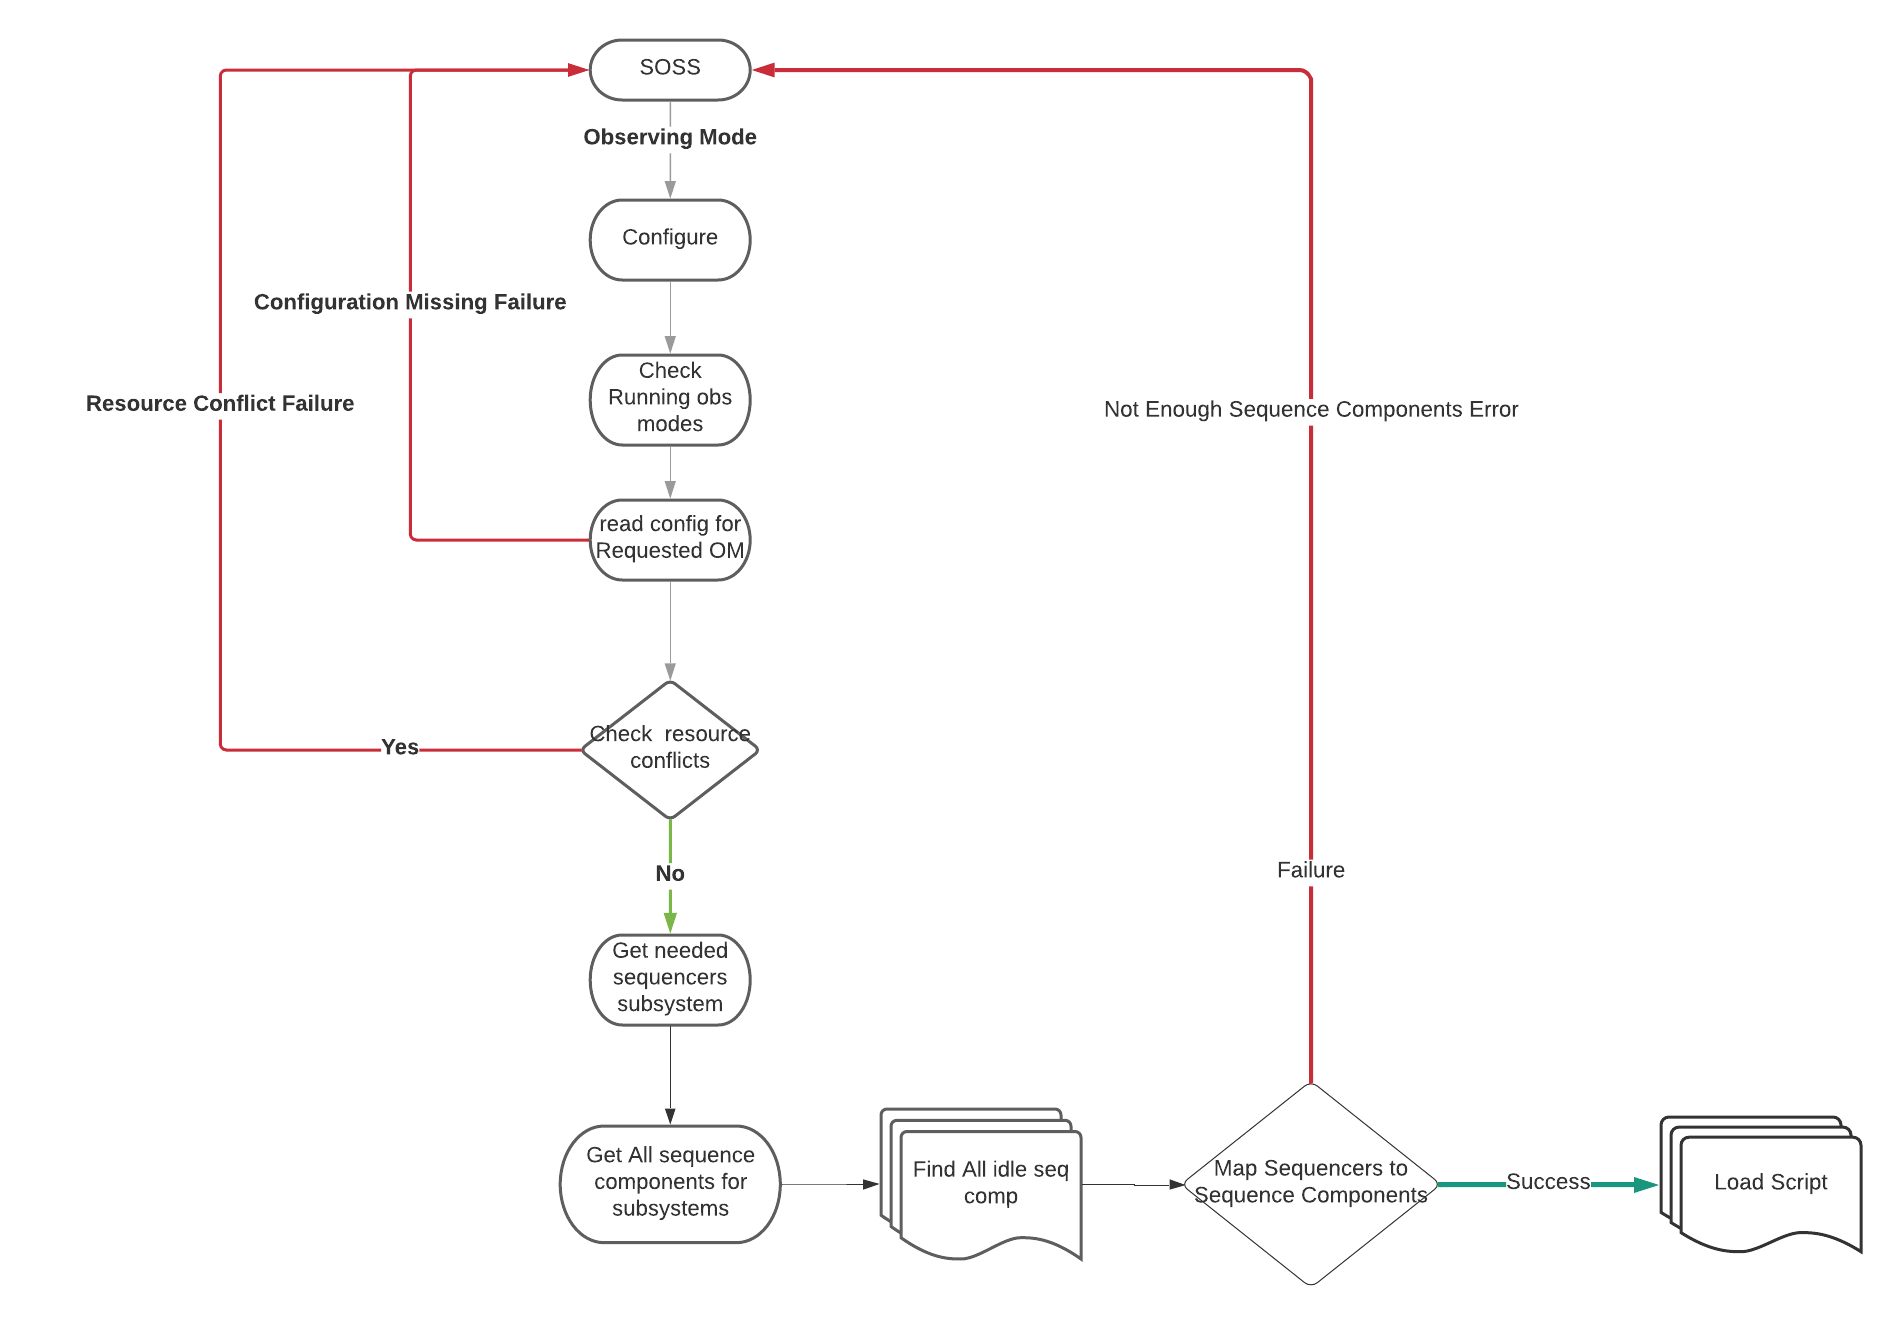
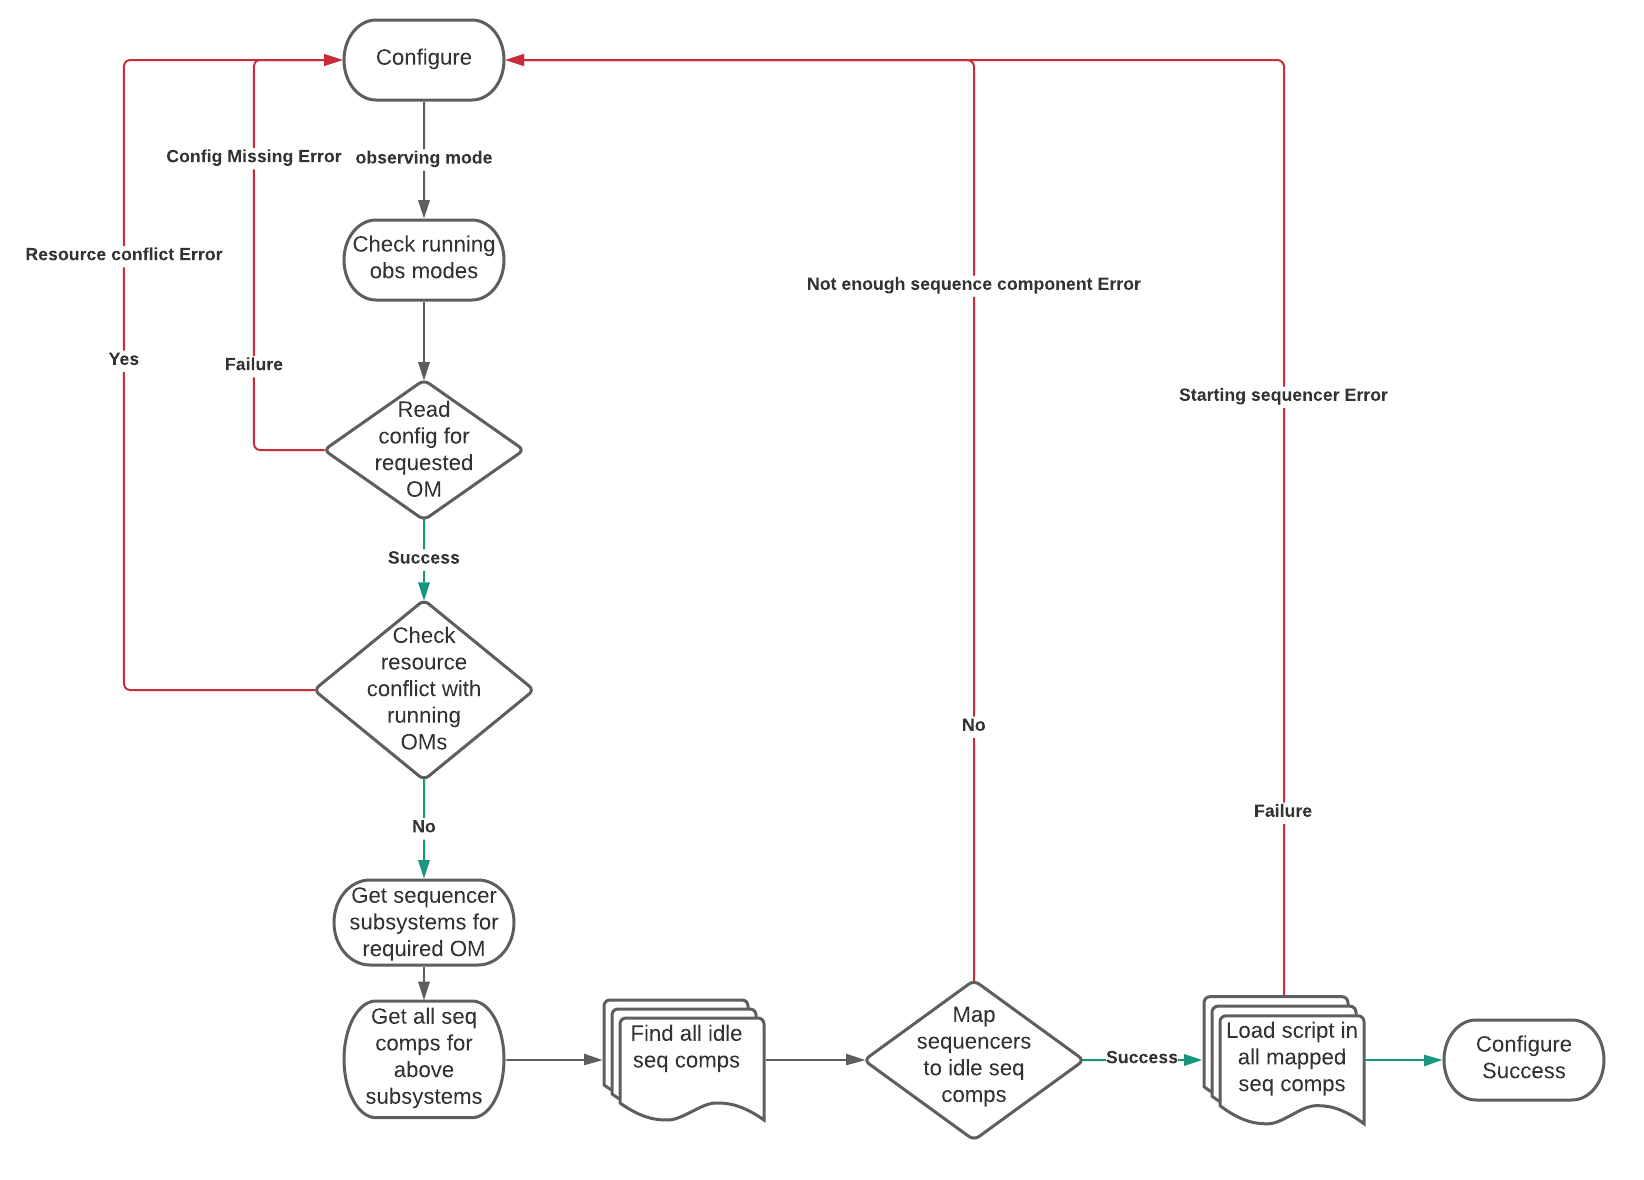
#ESW-388: Poorva: Technical documentation for Sequence Manager.

diff --git a/docs/src/main/technical/sequencemanager/sm-impl-details.md b/docs/src/main/technical/sequencemanager/sm-impl-details.md
@@ -38,9 +38,10 @@ Following flow chart shows algorithm for provision flow
 Configure is responsible for starting sequencers needed for an observing mode. It also checks for any resource conflicts with ongoing observations.
 Configure API, checks for required sequencers and resources in obsModeConfig file provided at boot up time sequence manager. This config file contains mapping of observing mode
 to required sequencers and resources. When configure for particular observing mode command is received by Sequence Manager, it checks following:
-- Mapping for required observing mode exists in configuration file
-- availability of adequate sequence components for starting sequencers
-- no resource conflict should occur with ongoing observations
+
+* Mapping for required observing mode exists in configuration file
+* availability of adequate sequence components for starting sequencers
+* no resource conflict should occur with ongoing observations
 
 ![Configure](../../images/sequencemanager/sm3.png)
 
@@ -64,7 +65,7 @@ subsystem, shutdown a particular sequencer and shutdown all running sequencers.
 Apart from APIs explained above, sequence manager also provides following APIs:
 
 * getRunningObsModes - gives information about all running observing modes
-* startSequencer - start sequencer for provided susbsystem and observing mode
-* restartSequencer - re-start sequencer for provided susbsystem and observing mode
+* startSequencer - start sequencer for provided subsystem and observing mode
+* restartSequencer - re-start sequencer for provided subsystem and observing mode
 * shutdownSequenceComponent - shutdown a sequence component with provided prefix
 * shutdownAllSequenceComponents - shutdown all running sequence components

diff --git a/docs/src/main/technical/sequencemanager/sm-state-transition.md b/docs/src/main/technical/sequencemanager/sm-state-transition.md
@@ -1,1 +1,18 @@
 # Sequence Manager State Transition
+
+Sequence Manager Actor is implemented as state machine. It has two states: Idle and Processing. At any point of time,
+sequence manager can be in exactly one of these states.
+
+Following digram depicts state transition for sequence manager:
+
+![State Transition Sequence Manager](../../images/sequencemanager/sm-state-transition.png)
+
+Implementation of these msgs is asynchronous in nature. So handling any other msgs while previous msg processing is incomplete can
+result in inconsistent system. For example,
+configure Observing_Mode_1 msg is received by Sequence Manager Actor. Let's assume that this reuires to start ESW, IRIS and TCS sequencers.
+Congigure flow has checked for resource conflict. No conflict is there so configure goes ahead with processing. During this processing,
+if any other msg like startSequencer for IRIS subsystem and Observing_Mode_2 is recieved then this will result in inconsistent behaviour.
+To avoid these cases, certain msgs are accepted only when sequence manager is idle. When any one of idle state msg is received, sequence manager
+goes into processing state where it accepts only common msgs (read state msgs which will not cause any inconsistency). In processing state, actor waits
+for processing complete msg. Once processing complete msg is recieved, actor goes back to idle state and ready to process any of idle state msg. Both idle
+and processing state can handle commom msgs without any state change.

diff --git a/docs/src/main/technical/sequencemanager/sequence-manager.md b/docs/src/main/technical/sequencemanager/sequence-manager.md
@@ -14,10 +14,11 @@ are running on which agent. Sequence Manager is implemented using Akka actor. Se
 Sequence Manager implementation is distributed into following sub modules:
 
 ### esw-sm-api
-This sequence manager API module is responsible for providing
- 1. shared - API which is cross compiled to JVM as well JS
- 2. shared - HTTP client which can be used by JVM as well as scala-js applications
- 3. jvm - Akka client for JVM applications, Akka actor messages, akka serializer
+This sequence manager API module is responsible for providing:
+
+1. shared - API which is cross compiled to JVM as well JS
+2. shared - HTTP client which can be used by JVM as well as scala-js applications
+3. jvm - Akka client for JVM applications, Akka actor messages, akka serializer
 
 ### esw-sm-handler
 This sequence manager handler module is responsible for providing HTTP routes for sequence manager HTTP server.
